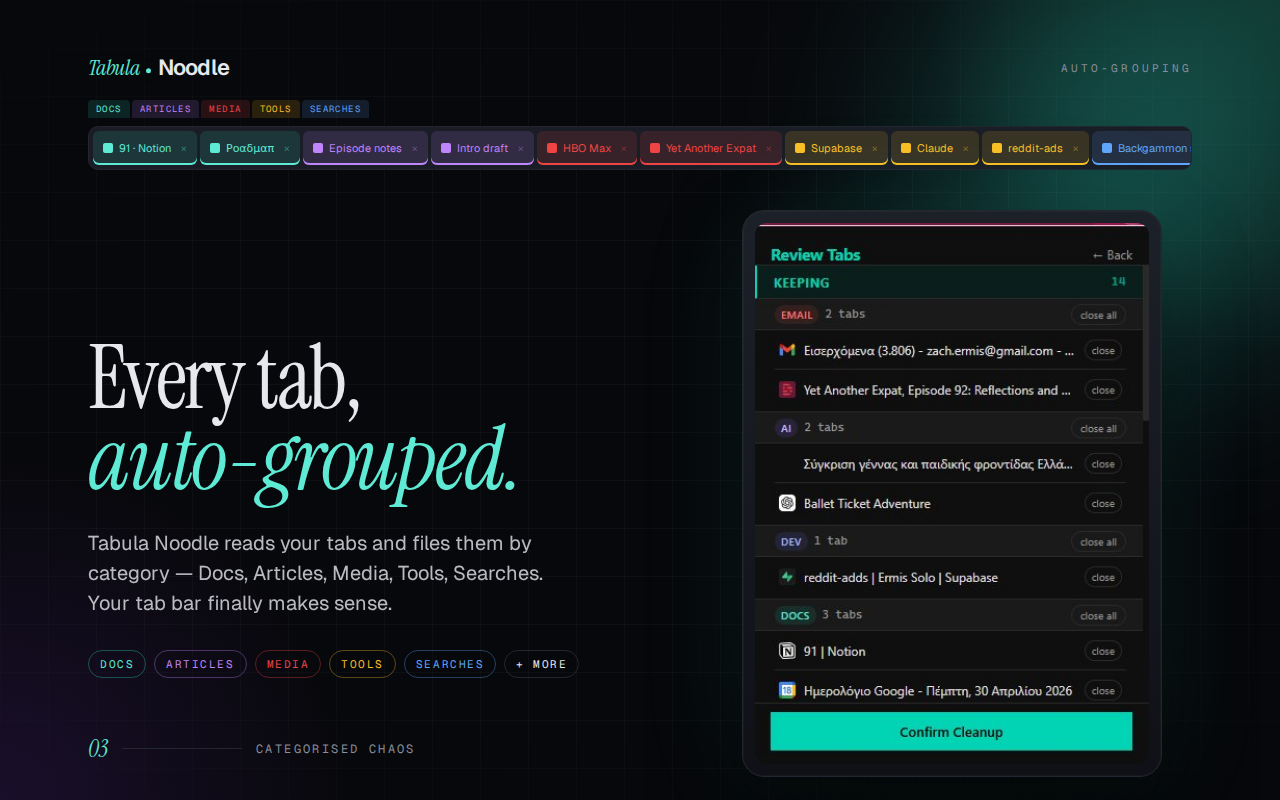
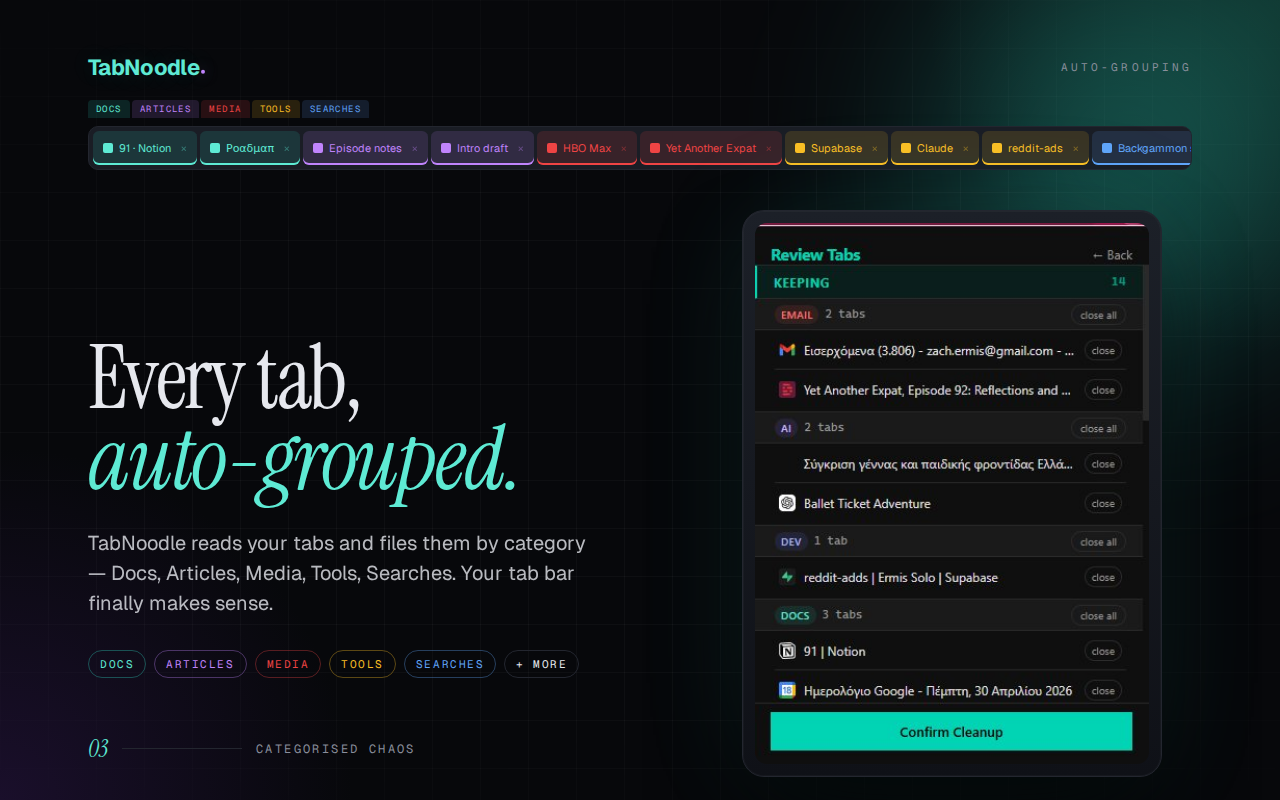
Refresh site from new design, re-apply real links + demo video
- Replace all files from the new tabnoodle-website zip (refreshed
  wordmark, cleaner TabNoodle naming, updated assets)
- Re-apply previous content swaps on the new source:
  - CTA social proof → "Free forever · Zero tracking · Works offline"
  - CTA secondary → Support with PayPal (paypal.me/hdfp)
  - Footer Support: PayPal + mailto for bug/feature/contact
  - Footer Elsewhere: github.com/Ennui92, demo video, real changelog
- Re-add "See it in 60 seconds" demo section with YouTube embed
  (09V-6yI2r0Y) between hero and problem, plus nav + hero CTA links

Changed region(s): [[0.0625, 0.6562, 0.4688, 0.7812], [0.0625, 0.0625, 0.1875, 0.0938], [0.8438, 0.0625, 0.9062, 0.0938]]

diff --git a/index.html b/index.html
@@ -3,10 +3,10 @@
 <head>
 <meta charset="utf-8">
 <meta name="viewport" content="width=device-width, initial-scale=1">
-<title>Tabula Noodle — Close the noise. Keep the signal.</title>
+<title>TabNoodle — Close the noise. Keep the signal.</title>
 <meta name="description" content="Smart tab cleanup for Chrome. Scores every tab, groups the keepers, and lets you swipe the rest away. No accounts. Private by default.">
-<meta property="og:title" content="Tabula Noodle — One-click tab cleanup">
-<meta property="og:description" content="You have 47 tabs. 12 matter. Tabula Noodle knows which.">
+<meta property="og:title" content="TabNoodle — One-click tab cleanup">
+<meta property="og:description" content="You have 47 tabs. 12 matter. TabNoodle knows which.">
 <meta property="og:image" content="assets/promo-marquee-1400x560.png">
 <meta property="og:type" content="website">
 <link rel="icon" type="image/png" href="favicon.png">
@@ -19,9 +19,7 @@
      ================================================================ -->
 <nav class="nav" id="nav">
   <a href="#top" class="wordmark">
-    <span class="tabula">Tabula</span>
-    <span class="dot"></span>
-    <span class="noodle">Noodle</span>
+    TabNoodle<span class="dot"></span>
   </a>
   <div class="nav-links">
     <a href="#demo">Demo</a>
@@ -51,7 +49,7 @@
         Keep <span class="soft">the&nbsp;signal.</span>
       </h1>
       <p class="lead">
-        Tabula Noodle scores every open tab, then tells you exactly what to keep, archive, and close. No login. No cloud. Just a clean browser.
+        TabNoodle scores every open tab, then tells you exactly what to keep, archive, and close. No login. No cloud. Just a clean browser.
       </p>
       <div class="hero-ctas">
         <a href="#install" class="btn btn-primary">
@@ -194,7 +192,7 @@
       </div>
       <h2>Sorted <em>in one<br>click.</em></h2>
       <p class="lead">
-        Open the popup. Tabula Noodle reads every tab across every window, scores them, and shows you the verdict. Confirm, and it's done.
+        Open the popup. TabNoodle reads every tab across every window, scores them, and shows you the verdict. Confirm, and it's done.
       </p>
       <ul class="feat-list">
         <li>Every tab gets a keep / archive / close recommendation</li>
@@ -207,7 +205,7 @@
     <div class="feat-visual">
       <div class="glow-seeker"><div class="glow teal"></div></div>
       <div class="device popup teal-glow">
-        <img src="assets/ui-popup.png" alt="Tabula Noodle popup showing 20 tabs across 4 windows, with 15 to keep and 5 to close">
+        <img src="assets/ui-popup.png" alt="TabNoodle popup showing 20 tabs across 4 windows, with 15 to keep and 5 to close">
         <div class="callout teal" style="top: 60px; right: -48px;">Keep &nbsp;·&nbsp; 15</div>
         <div class="callout ember" style="bottom: 140px; left: -60px;">Close &nbsp;·&nbsp; 5</div>
       </div>
@@ -228,7 +226,7 @@
       </div>
       <h2>Tinder <span class="plum">for&nbsp;tabs.</span></h2>
       <p class="lead">
-        Decisions are hard. Tabula Noodle makes them one at a time. Left arrow to close, right arrow to keep. You'll cruise through 50 tabs in under a minute.
+        Decisions are hard. TabNoodle makes them one at a time. Left arrow to close, right arrow to keep. You'll cruise through 50 tabs in under a minute.
       </p>
       <ul class="feat-list">
         <li class="plum">Keyboard-first — ← and → do everything</li>
@@ -241,7 +239,7 @@
     <div class="feat-visual">
       <div class="glow-seeker"><div class="glow plum"></div></div>
       <div class="device swipe plum-glow">
-        <img src="assets/ui-swipe.png" alt="Tabula Noodle swipe mode showing a media tab for play.hbomax.com with close and keep buttons">
+        <img src="assets/ui-swipe.png" alt="TabNoodle swipe mode showing a media tab for play.hbomax.com with close and keep buttons">
         <div class="callout ember" style="top: 50%; left: -70px; transform: translateY(-50%);">← Close</div>
         <div class="callout teal" style="top: 50%; right: -70px; transform: translateY(-50%);">Keep →</div>
       </div>
@@ -262,7 +260,7 @@
       </div>
       <h2>Every tab,<br><em>auto-grouped.</em></h2>
       <p class="lead">
-        Tabula Noodle reads your tabs and files them by category — Docs, Articles, Media, Tools, Searches. Your tab bar finally makes sense.
+        TabNoodle reads your tabs and files them by category — Docs, Articles, Media, Tools, Searches. Your tab bar finally makes sense.
       </p>
       <ul class="feat-list">
         <li>Review mode lets you see every decision before confirming</li>
@@ -275,7 +273,7 @@
     <div class="feat-visual">
       <div class="glow-seeker"><div class="glow teal"></div></div>
       <div class="device review teal-glow">
-        <img src="assets/ui-review.png" alt="Tabula Noodle review panel showing tabs grouped into Email, AI, Dev, and Docs categories">
+        <img src="assets/ui-review.png" alt="TabNoodle review panel showing tabs grouped into Email, AI, Dev, and Docs categories">
       </div>
     </div>
   </div>
@@ -292,7 +290,7 @@
     </div>
     <h2><em class="gentle">Gentle</em> <span class="or">or</span> <em class="ruthless">ruthless.</em></h2>
     <p class="lead">
-      You set the dial. Tabula Noodle closes as much — or as little — as you're comfortable with. No nagging, no defaults-that-aren't-really-defaults.
+      You set the dial. TabNoodle closes as much — or as little — as you're comfortable with. No nagging, no defaults-that-aren't-really-defaults.
     </p>
 
     <div class="slider-wrap">
@@ -343,7 +341,7 @@
       your <span class="browser">browser.</span>
     </h2>
     <p class="lead">
-      No accounts. No servers. No tracking. Tabula Noodle runs entirely on your machine — the way a browser extension should.
+      No accounts. No servers. No tracking. TabNoodle runs entirely on your machine — the way a browser extension should.
     </p>
 
     <div class="privacy-facts">
@@ -424,7 +422,7 @@
         <div class="rm-tag">Pro</div>
         <div class="rm-num">06</div>
         <h3>Focus mode</h3>
-        <p>Type what you're working on. Tabula Noodle keeps only the tabs that match, and brings the rest back when you're done.</p>
+        <p>Type what you're working on. TabNoodle keeps only the tabs that match, and brings the rest back when you're done.</p>
       </div>
     </div>
   </div>
@@ -460,9 +458,7 @@
   <div class="footer-inner">
     <div class="footer-brand">
       <a href="#top" class="wordmark">
-        <span class="tabula">Tabula</span>
-        <span class="dot"></span>
-        <span class="noodle">Noodle</span>
+        TabNoodle<span class="dot"></span>
       </a>
       <p>Smart tab cleanup that respects your attention, your privacy, and your music playback.</p>
     </div>
@@ -495,7 +491,7 @@
   </div>
   <div class="footer-bottom">
     <div class="made">Made by an over-tabbed human in <em>Berlin</em>.</div>
-    <div class="made">© 2026 Tabula Noodle · All rights reserved</div>
+    <div class="made">© 2026 TabNoodle · All rights reserved</div>
   </div>
 </footer>
 

diff --git a/styles.css b/styles.css
@@ -79,31 +79,23 @@ button { font: inherit; cursor: pointer; }
 .wordmark {
   display: inline-flex;
   align-items: baseline;
-  gap: 0.15em;
+  gap: 0.05em;
   line-height: 1;
-  letter-spacing: -0.01em;
-}
-.wordmark .tabula {
-  font-family: var(--font-display);
-  font-style: italic;
-  font-weight: 400;
-  color: var(--teal-bright);
-}
-.wordmark .noodle {
   font-family: var(--font-sans);
-  font-weight: 600;
-  letter-spacing: -0.035em;
-  color: var(--bone);
+  font-weight: 700;
+  color: var(--teal-bright);
+  letter-spacing: -0.03em;
+  text-shadow: 0 0 24px rgba(94, 234, 212, 0.15);
 }
 .wordmark .dot {
   display: inline-block;
-  width: 0.22em;
-  height: 0.22em;
+  width: 0.2em;
+  height: 0.2em;
   border-radius: 999px;
-  background: var(--teal-bright);
-  transform: translateY(-0.08em);
-  margin: 0 0.14em;
-  box-shadow: 0 0 0.8em var(--teal-glow);
+  background: var(--plum);
+  transform: translateY(-0.06em);
+  margin-left: 0.02em;
+  box-shadow: 0 0 0.6em rgba(192, 132, 252, 0.5);
 }
 
 .grid-bg {
@@ -408,10 +400,12 @@ button { font: inherit; cursor: pointer; }
   line-height: 1.05;
   letter-spacing: -0.02em;
   margin: 24px 0 40px;
+  font-weight: 400;
+  color: var(--bone);
 }
 .demo-h2 em {
   font-style: italic;
-  color: var(--teal, #5eead4);
+  color: var(--teal-bright);
 }
 .demo-frame {
   position: relative;
@@ -423,7 +417,7 @@ button { font: inherit; cursor: pointer; }
   box-shadow:
     0 0 0 1px var(--line-soft),
     0 30px 80px -20px rgba(0,0,0,0.7),
-    0 0 120px -20px rgba(94, 234, 212, 0.15);
+    0 0 120px -20px var(--teal-glow);
 }
 .demo-frame iframe {
   position: absolute;
